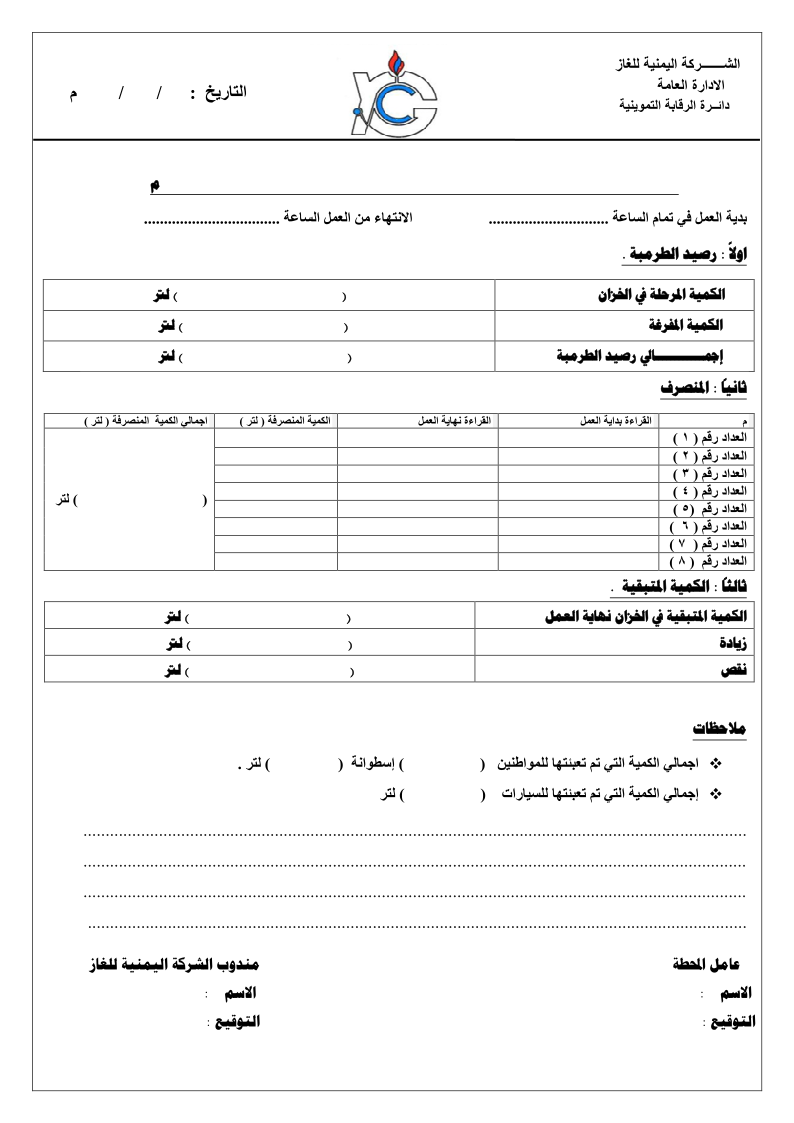
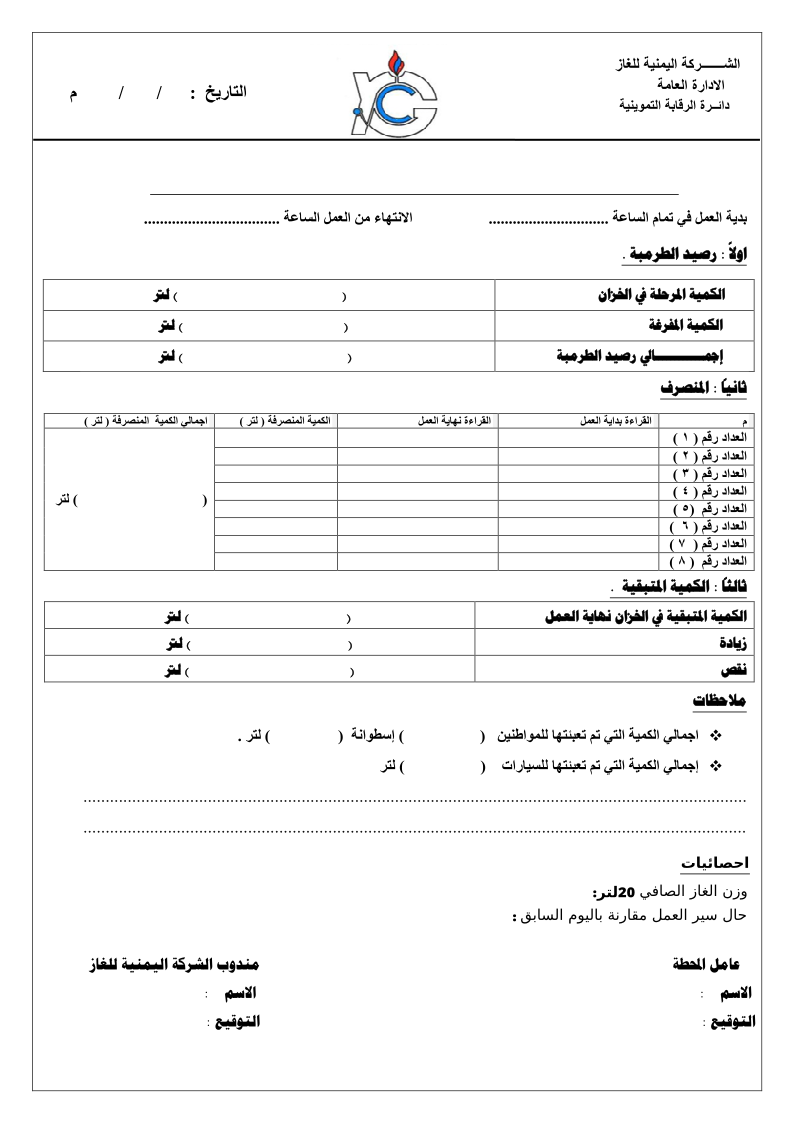
Added statistics

diff --git a/lib/core/services/database/report_repository.dart b/lib/core/services/database/report_repository.dart
@@ -149,6 +149,31 @@ class ReportRepository {
     );
   }
 
+
+  Future<ReportModel?> getReportByDate(DateTime date, {bool isDraft = false}) async {
+    final db = await database;
+
+    // Normalize date (remove time part)
+    final dateOnly = DateTime(date.year, date.month, date.day);
+    final dateString = dateOnly.toIso8601String().substring(0, 10); // 'YYYY-MM-DD'
+
+    debugPrint("++++++++++++++++++++++ DATE LIKE $dateString%");
+    // Check for existing report on the same date
+    final existing = await db.rawQuery('''
+      SELECT reports.*, stations.name as stationName 
+      FROM reports
+      LEFT JOIN stations ON reports.stationId = stations.id
+      WHERE reports.date LIKE ? AND reports.isDraft = ?
+      ORDER BY reports.date DESC
+      LIMIT 1
+    ''', ['$dateString%', isDraft ? 1 : 0]);
+
+    if(existing.isNotEmpty){
+      debugPrint("STATION NAME IS: ${existing.first["stationName"]} : ID: ${existing.first["stationId"]}");
+      return _mapToReport(existing.first);
+    }
+    return null;
+  }
   // ---------------------- Reports ----------------------
 
   Future<int> insertReport(ReportModel report) async {
@@ -156,22 +181,11 @@ class ReportRepository {
 
     // Get or insert station
     int stationId = await _getOrInsertStation(report.stationName);
-    // Normalize date (remove time part)
-    final dateOnly = DateTime(report.date.year, report.date.month, report.date.day);
-    final dateString = dateOnly.toIso8601String().substring(0, 10); // 'YYYY-MM-DD'
-
-    debugPrint("DATE LIKE $dateString%");
-    // Check for existing report on the same date
-    final existing = await db.query(
-      'reports',
-      where: "date LIKE ? AND isDraft = ?",
-      whereArgs: ['$dateString%', report.isDraft? 1 : 0], // Match any time on the same date
-      limit: 1,
-    );
-
+    
+    final ReportModel? existingReport = await getReportByDate(report.date, isDraft: report.isDraft);
     // If exists, delete it
-    if (existing.isNotEmpty) {
-      final id = existing.first['id'] as int;
+    if (existingReport != null) {
+      final id = existingReport.id as int;
       await db.delete(
         'reports',
         where: 'id = ?',
@@ -276,7 +290,7 @@ class ReportRepository {
 
     return ReportModel(
       id: map['id'],
-      stationName: map['stationName'],
+      stationName: map['stationName'] ?? "",
       date: DateTime.tryParse(map['date']) ?? DateTime.now(),
       beginTime: TimeOfDay(
         hour: int.tryParse(beginParts[0]) ?? 8,

diff --git a/lib/features/creation/presentation/utils/report_printer.dart b/lib/features/creation/presentation/utils/report_printer.dart
@@ -1,4 +1,5 @@
 import 'package:flutter/material.dart';
+import 'package:pdf/pdf.dart';
 import 'package:pdf/widgets.dart' as pw;
 import 'package:ygc_reports/core/constants/report_type.dart';
 import 'package:ygc_reports/core/utils/local_helpers.dart';
@@ -33,6 +34,7 @@ class ReportPrinter {
       ..._pumpReads(),
       ..._remainingLoad(),
       ..._notes(),
+      ..._statistics(),
       ..._employees(),
       ..._footer(context),
     ];
@@ -134,7 +136,7 @@ class ReportPrinter {
                       font: font,
                       fontWeight: pw.FontWeight.bold,
                     ),
-                    text: "${formatDate(data.date)} "
+                    text: "${formatDate(data.date, reverseDirection: true)} م"
                   ),
                 ]
               )
@@ -307,7 +309,7 @@ class ReportPrinter {
   }
 
   List<pw.Widget> _notes(){
-    final double y = 565;
+    final double y = 539;
     
     return [
       if(data.filledForPeople > 0) 
@@ -361,6 +363,38 @@ class ReportPrinter {
             ),
           ),
         ),
+    ];
+  }
+
+  List<pw.Widget> _statistics(){
+    final double y = 658;
+
+    return [
+      if(data.fullTankWeight > 0)
+        pw.Positioned(
+          right: 165,
+          top: y,
+          child: pw.Container(
+            width: 55,
+            height: 15,
+            child: pw.Center(
+              child: arabicText("${data.fullTankWeight.toString()} كجم"), // or any function that returns pw.Text
+            ),
+          ),
+        ),
+        
+        if((data.progress ?? 0) > 0 || (data.litersDifference ?? 0).abs() > 0)
+          pw.Positioned(
+            right: 220,
+            top: y + 18,
+            child: pw.Container(
+              width: 200,
+              height: 15,
+              child: arabicText(
+                  "${data.litersDifference! < 0 ? "نقصان بنسبة " : "زيادة بنسبة "} ( ${data.progress}% ) ( ${data.litersDifference!.abs()} لتر )"
+                ),
+            ),
+          )
     ];
   }
 

diff --git a/lib/features/creation/presentation/utils/utils.dart b/lib/features/creation/presentation/utils/utils.dart
@@ -37,8 +37,16 @@ Future<void> generateReport({
       if(!result) return; // The user don't want to overwrite the previous report.
     }
 
-    final pdf = pw.Document();
+    final ReportModel? previousReport = await reportRepository.getReportByDate(model.date.subtract(const Duration(days: 1)) );
 
+    debugPrint("BROOOOOOOOOOO IS THE FUCKING THING IS: ${previousReport}");
+    // If its the report for the next day, calculate the increase the total consumed liters.
+    if(previousReport != null && previousReport.stationName == model.stationName){
+      model.litersDifference = model.totalConsumed - previousReport.totalConsumed;
+      model.progress = calculatePercentageIncrease(previousReport.totalConsumed, model.totalConsumed);
+    }
+    
+    final pdf = pw.Document();
     // Load the background image
     final imageData = await rootBundle.load('assets/docs/template.png');
     final image = pw.MemoryImage(imageData.buffer.asUint8List());

diff --git a/lib/models/report_model.dart b/lib/models/report_model.dart
@@ -35,6 +35,17 @@ class ReportModel {
   bool isDraft;
   int? id;
 
+
+  // Additional fields
+  /// The percentage of the difference in work with the prior day.
+  double? progress;
+
+  /// The tank weight (20L)
+  double fullTankWeight;
+
+  /// The liters difference than the prior day
+  int? litersDifference;
+
   ReportModel({
     this.stationName = '',
     DateTime? date,
@@ -43,6 +54,8 @@ class ReportModel {
     this.tankLoad = 0,
     this.isDraft = false,
     this.id,
+    this.progress,
+    this.fullTankWeight = 0,
     this.inboundAmount = 0,
     this.totalLoad = 0,
     this.remainingLoad = 0,

diff --git a/lib/features/creation/presentation/screens/create_report_screen.dart b/lib/features/creation/presentation/screens/create_report_screen.dart
@@ -486,6 +486,16 @@ class _CreateReportFormState extends State<CreateReportForm> {
             return null;
           },
         )),
+        _spaced(_buildField(
+          context,
+          "Full Tank Weight (20L)",
+          model.fullTankWeight,
+          'fullTankWeight',
+          decoration: InputDecoration(
+            labelText: "Full Tank Weight (20L)",
+          ),
+          keyboardType: TextInputType.number,
+        )),
         _spaced(FocusTextField(
           decoration: InputDecoration(labelText: context.loc.field_notes),
           initialValue: model.notes,

diff --git a/lib/core/utils/formatters.dart b/lib/core/utils/formatters.dart
@@ -14,8 +14,8 @@ String getDayName(DateTime date){
   return arabicDays[date.weekday] ?? '';
 }
 
-String formatDate(DateTime date) {
-  return '${date.year} / ${date.month} / ${date.day}';
+String formatDate(DateTime date, {bool reverseDirection = false}) {
+  return reverseDirection? '${date.day} / ${date.month} / ${date.year}' : '${date.year} / ${date.month} / ${date.day}';
 }
 
 String formatTimeOfDay(TimeOfDay time) {

diff --git a/lib/core/utils/local_helpers.dart b/lib/core/utils/local_helpers.dart
@@ -6,3 +6,8 @@ extension L10nHelper on BuildContext {
   List<Locale> get supportedLocales => AppLocalizations.supportedLocales;
   bool get isRtl => Directionality.of(this) == TextDirection.rtl;
 }
+
+double calculatePercentageIncrease(int oldValue, int newValue) {
+  if (oldValue == 0) return double.infinity; // avoid division by zero
+  return (((newValue - oldValue) / oldValue) * 100).roundToDouble().abs();
+}

diff --git a/lib/providers/report_provider.dart b/lib/providers/report_provider.dart
@@ -32,6 +32,9 @@ class ReportProvider extends ChangeNotifier {
       case 'tankLoad':
         model.tankLoad = int.tryParse(value) ?? 0;
         break;
+      case 'fullTankWeight':
+        model.fullTankWeight = double.tryParse(value) ?? 0;
+        break;
       case 'inboundAmount':
         model.inboundAmount = int.tryParse(value) ?? 0;
         break;
